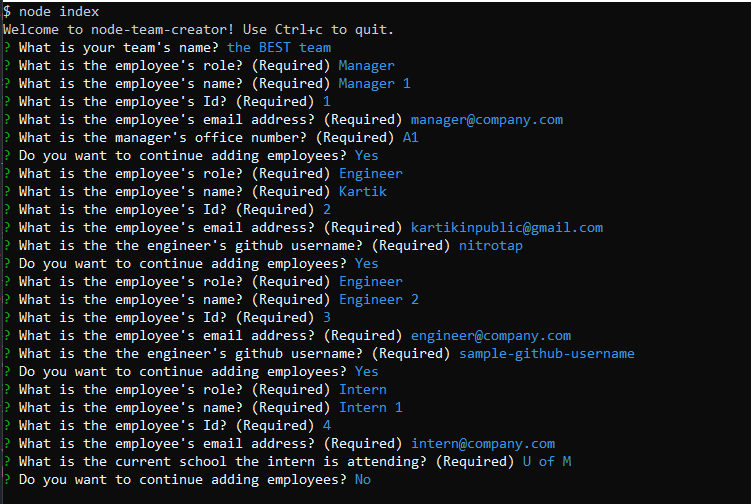
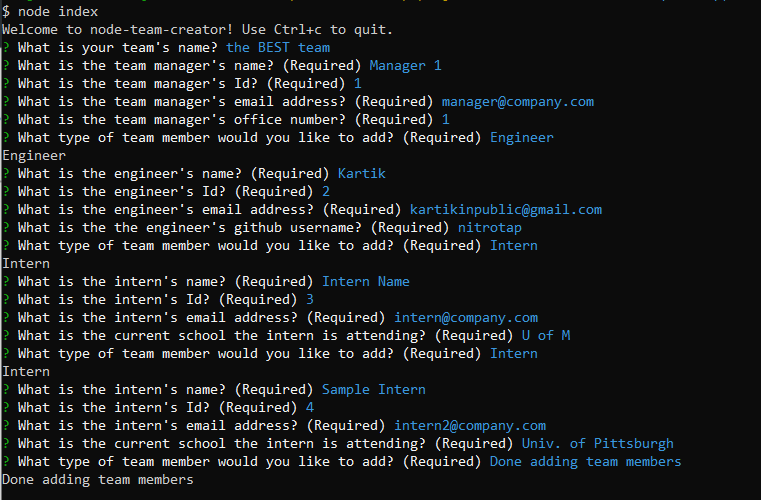
refactor to make it exactly as requested

Changed region(s): [[0.0, 0.0, 1.0, 1.0]]

diff --git a/index.js b/index.js
@@ -3,7 +3,7 @@
 */
 const inquirer = require('inquirer');
 
-const Employee = require("./lib/Employee")
+// const Employee = require("./lib/Employee")
 const Engineer = require("./lib/Engineer")
 const Intern = require("./lib/Intern")
 const Manager = require("./lib/Manager")
@@ -11,23 +11,16 @@ const Manager = require("./lib/Manager")
 const { generatePage, generateCard } = require("./src/generateHTML.js")
 const { writeFile } = require("./utils/fileWriter.js")
 
-const employeeQuestions = [
-    // role, name, id, email, school, github, officeNumber
-    {
-        type: "list",
-        name: "role",
-        message: "What is the employee's role? (Required)",
-        choices: ["Manager", "Engineer", "Intern"],
-    },
+const engineerQuestions = [
     {
         type: "input",
         name: "name",
-        message: "What is the employee's name? (Required)",
+        message: "What is the engineer's name? (Required)",
         validate: (userInput) => {
             if (userInput) {
                 return true;
             } else {
-                console.log("Please enter the employee's name.");
+                console.log("Please enter the engineer's name.");
                 return false;
             }
         }
@@ -35,7 +28,7 @@ const employeeQuestions = [
     {
         type: "input",
         name: "id",
-        message: "What is the employee's Id? (Required)",
+        message: "What is the engineer's Id? (Required)",
         validate: (userInput) => {
             if (userInput) {
                 return true
@@ -47,26 +40,7 @@ const employeeQuestions = [
     {
         type: "input",
         name: "email",
-        message: "What is the employee's email address? (Required)",
-        validate: (userInput) => {
-            if (userInput) {
-                return true
-            } else {
-                return false;
-            }
-        }
-    },
-    {
-        type: "input",
-        name: "officeNumber",
-        message: "What is the manager's office number? (Required)",
-        when: ({ role }) => {
-            if (role === "Manager") {
-                return true
-            } else {
-                return false
-            }
-        },
+        message: "What is the engineer's email address? (Required)",
         validate: (userInput) => {
             if (userInput) {
                 return true
@@ -79,13 +53,6 @@ const employeeQuestions = [
         type: "input",
         name: "gitHub",
         message: "What is the the engineer's github username? (Required)",
-        when: ({ role }) => {
-            if (role === "Engineer") {
-                return true
-            } else {
-                return false
-            }
-        },
         validate: (userInput) => {
             if (userInput) {
                 return true
@@ -93,19 +60,53 @@ const employeeQuestions = [
                 return false;
             }
         }
+    }
 
+]
+
+
+const internQuestions = [
+    {
+        type: "input",
+        name: "name",
+        message: "What is the intern's name? (Required)",
+        validate: (userInput) => {
+            if (userInput) {
+                return true;
+            } else {
+                console.log("Please enter the intern's name.");
+                return false;
+            }
+        }
+    },
+    {
+        type: "input",
+        name: "id",
+        message: "What is the intern's Id? (Required)",
+        validate: (userInput) => {
+            if (userInput) {
+                return true
+            } else {
+                return false;
+            }
+        }
+    },
+    {
+        type: "input",
+        name: "email",
+        message: "What is the intern's email address? (Required)",
+        validate: (userInput) => {
+            if (userInput) {
+                return true
+            } else {
+                return false;
+            }
+        }
     },
     {
         type: "input",
         name: "school",
         message: "What is the current school the intern is attending? (Required)",
-        when: ({ role }) => {
-            if (role === "Intern") {
-                return true
-            } else {
-                return false
-            }
-        },
         validate: (userInput) => {
             if (userInput) {
                 return true
@@ -116,9 +117,7 @@ const employeeQuestions = [
     }
 ]
 
-let answerArray = []
 let employeeArray = []
-
 async function questions() {
     console.log("Welcome to node-team-creator! Use Ctrl+c to quit.")
     let teamName = await inquirer.prompt({
@@ -135,71 +134,102 @@ async function questions() {
         }
     })
 
-    let confirm = true;
-    while (confirm) {
-        let response = await inquirer.prompt(employeeQuestions)
-        answerArray.push(response)
-        confirm = await inquirer.prompt({
-            type: "confirm",
-            name: "confirmContinue",
-            message: "Do you want to continue adding employees?"
-        })
-        if (!confirm.confirmContinue) {
-            confirm = false;
+    // first ask for team manager
+    let teamManager = await inquirer.prompt([
+        {
+            type: "input",
+            name: "name",
+            message: "What is the team manager's name? (Required)",
+            validate: (userInput) => {
+                if (userInput) {
+                    return true;
+                } else {
+                    return false;
+                }
+            }
+        },
+        {
+            type: "input",
+            name: "id",
+            message: "What is the team manager's Id? (Required)",
+            validate: (userInput) => {
+                if (userInput) {
+                    return true
+                } else {
+                    return false;
+                }
+            }
+        },
+        {
+            type: "input",
+            name: "email",
+            message: "What is the team manager's email address? (Required)",
+            validate: (userInput) => {
+                if (userInput) {
+                    return true
+                } else {
+                    return false;
+                }
+            }
+        },
+        {
+            type: "input",
+            name: "officeNumber",
+            message: "What is the team manager's office number? (Required)",
+            validate: (userInput) => {
+                if (userInput) {
+                    return true
+                } else {
+                    return false;
+                }
+            }
+        }
+    ])
+
+    teamManager = new Manager(teamManager.name, teamManager.id, teamManager.email, teamManager.officeNumber)
+
+    employeeArray.push(teamManager)
+
+    let loop = true;
+    while (loop) {
+        // one prompt for which type of team member
+        let askRole = await inquirer.prompt(
+            {
+                type: "list",
+                name: "role",
+                message: "What type of team member would you like to add? (Required)",
+                choices: ["Engineer", "Intern", "Done adding team members"]
+            }
+        )
+        console.log(askRole.role)
+
+        // based on role, ask
+        switch (askRole.role) {
+            case "Engineer":
+                let engineer = await inquirer.prompt(engineerQuestions)
+                employeeArray.push(new Engineer(engineer.name, engineer.id, engineer.email, engineer.gitHub))
+                break;
+
+            case "Intern":
+                let intern = await inquirer.prompt(internQuestions)
+                employeeArray.push(new Intern(intern.name, intern.id, intern.email, intern.school))
+                break;
+            default:
+                loop = false;
+                break;
         }
     }
 
     let cardHTML = []
-    for (let i in answerArray) {
-        switch (answerArray[i].role) {
-            case "Manager":
-                let manager = new Manager(answerArray[i].name,
-                    answerArray[i].id,
-                    answerArray[i].email,
-                    answerArray[i].officeNumber)
-                employeeArray.push(manager)
 
-                cardHTML.push(generateCard(manager))
-
-                break;
-
-            case "Engineer":
-                let engineer = new Engineer(answerArray[i].name,
-                    answerArray[i].id,
-                    answerArray[i].email,
-                    answerArray[i].gitHub)
-                employeeArray.push(engineer)
-
-                cardHTML.push(generateCard(engineer))
-
-                break;
-
-            case "Intern":
-                let intern = new Intern(answerArray[i].name,
-                    answerArray[i].id,
-                    answerArray[i].email,
-                    answerArray[i].school)
-                employeeArray.push(intern)
-
-                cardHTML.push(generateCard(intern))
-
-                break;
-
-            default:
-
-                let employee = new Employee(answerArray[i].name,
-                    answerArray[i].id,
-                    answerArray[i].email)
-                employeeArray.push(employee)
-
-                cardHTML.push(generateCard(employee))
-
-                break;
-        }
-    }
+    employeeArray.forEach(employee => {
+        cardHTML.push(generateCard(employee))
+    })
 
     let pageHTML = generatePage(cardHTML.join(""), teamName.teamName)
     writeFile(pageHTML)
+
 }
+
 
 questions()

diff --git a/dist/profile.html b/dist/profile.html
@@ -44,7 +44,7 @@
         <a href="mailTo:manager@company.com">manager@company.com</a>
       </h6>
       <h6 style="padding: 10px">
-        Office Number: A1
+        Office Number: 1
       </h6>
     </div>
   </article>
@@ -76,19 +76,19 @@
     style="margin: 10px"
   >
     <div class="employee-name bg-dark text-light">
-      <h4 style="padding: 10px">Engineer 2</h4>
+      <h4 style="padding: 10px">Intern Name</h4>
 
-      <h4 style="padding: 10px"><i class="bi bi-gear"></i>  Engineer</h4>
+      <h4 style="padding: 10px"><i class="bi bi-calculator"></i>  Intern</h4>
 
     </div>
     <div class="employee-info">
       <h6 style="padding: 10px">ID: 3</h6>
       <h6 style="padding: 10px">
         Email:
-        <a href="mailTo:engineer@company.com">engineer@company.com</a>
+        <a href="mailTo:intern@company.com">intern@company.com</a>
       </h6>
       <h6 style="padding: 10px">
-        GitHub: <a href="https://www.github.com/sample-github-username" target="_blank">sample-github-username</a>
+        School: U of M
       </h6>
     </div>
   </article>
@@ -98,7 +98,7 @@
     style="margin: 10px"
   >
     <div class="employee-name bg-dark text-light">
-      <h4 style="padding: 10px">Intern 1</h4>
+      <h4 style="padding: 10px">Sample Intern</h4>
 
       <h4 style="padding: 10px"><i class="bi bi-calculator"></i>  Intern</h4>
 
@@ -107,10 +107,10 @@
       <h6 style="padding: 10px">ID: 4</h6>
       <h6 style="padding: 10px">
         Email:
-        <a href="mailTo:intern@company.com">intern@company.com</a>
+        <a href="mailTo:intern2@company.com">intern2@company.com</a>
       </h6>
       <h6 style="padding: 10px">
-        School: U of M
+        School: Univ. of Pittsburgh
       </h6>
     </div>
   </article>

diff --git a/README.md b/README.md
@@ -37,7 +37,7 @@ npm run test
 
 ## Walk-through
 
-<a href="https://drive.google.com/file/d/1-KRwuR_gVJh-g8rVL7_zHTXiLEchF8BI/view" target="_blank">Walk-through Video</a>
+<a href="https://drive.google.com/file/d/1mMGpJCJO6mNzePLZiaVH_2iUN0hkPxxs/view" target="_blank">Walk-through Video</a>
 
 ## Screen Shots
 
